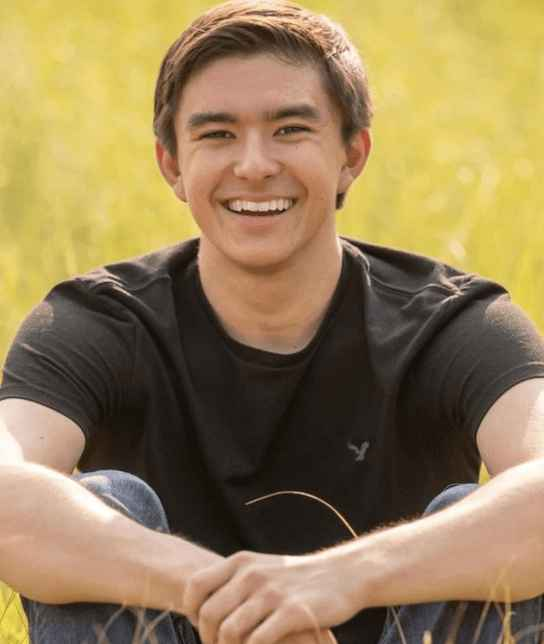
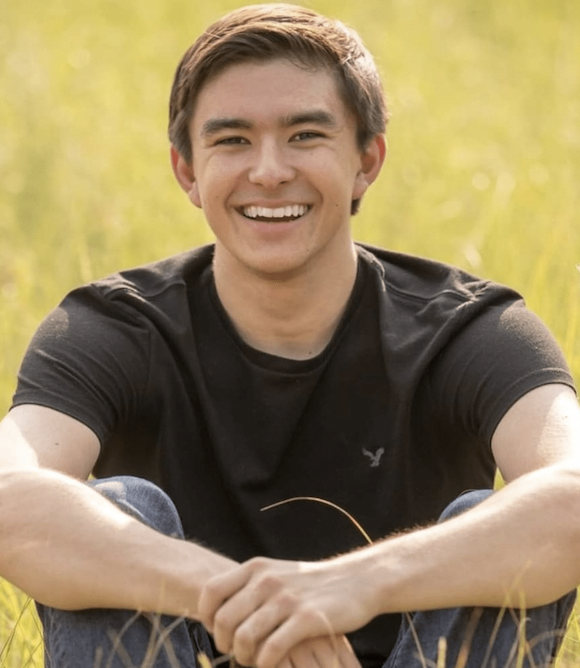
chore: Refit headshot in Name

diff --git a/src/components/NameComponent.js b/src/components/NameComponent.js
@@ -1,14 +1,31 @@
 import '../styles/Name.css'
 import headshot from '../assets/headshot.png';
+import { useState, useEffect } from 'react';
 import { AiOutlineArrowDown } from 'react-icons/ai';
 import { Container, Row, Col } from 'react-bootstrap';
 
 function NameComponent() {
+  const [isSmall, setIsSmallScreen] = useState(window.innerWidth < 1025);
+  const [isVerySmall, setIsVerySmallScreen] = useState(window.innerWidth < 768);
+
+  useEffect(() => {
+    function handleResize() {
+      setIsSmallScreen(window.innerWidth < 1025);
+      setIsVerySmallScreen(window.innerWidth < 768);
+    }
+
+    window.addEventListener('resize', handleResize);
+
+    return () => {
+      window.removeEventListener('resize', handleResize);
+    };
+  }, []);
+
   return (
     <div id="nameC" className="full-page-panel">
       <Container fluid style={{ paddingLeft: "15%", paddingRight: "15%" }}>
         <Row>
-          <Col md={6} style={{paddingTop: "5%" }}>
+          <Col md={6} style={{paddingTop: `${isVerySmall ? '30%' : `${isSmall ? '0%' : '10%'}`}`}}>
             <img src={headshot} alt="Headshot" className="headshot"/>
           </Col>
           <Col md={6} className="align-items-center" style={{
@@ -17,9 +34,9 @@ function NameComponent() {
                 justifyContent: "center",
                 alignItems: "center",
               }}>
-            <h1><strong>Korry Tunnicliff</strong></h1>
-            <h3 style={{fontSize: "4vh;"}} className="name-subheader-1"><i>CU Boulder '23</i></h3>
-            <h3 style={{fontSize: "4vh;"}} className="name-subheader-2"><i>Computer Science BS</i></h3>
+            <h1 id="head1"><strong>Korry Tunnicliff</strong></h1>
+            <h3 id="head2" className="name-subheader-1"><i>CU Boulder '23</i></h3>
+            <h3 id="head3" className="name-subheader-2"><i>Computer Science BS</i></h3>
             <br />
             <br />
           </Col>

diff --git a/src/styles/Name.css b/src/styles/Name.css
@@ -9,6 +9,14 @@ body {
     background-size: cover;
 }
 
+#nameC h1 {
+    font-size: 6vh;
+}
+
+#nameC h3 {
+    font-size: 4vh;
+}
+
 #nameC::before {
     content: '';
     position: absolute;
@@ -51,42 +59,55 @@ h4:hover {
     font-size: 3vw;
   }
   
-  .scroll-prompt:hover {
+.scroll-prompt:hover {
     background-color: #0d1b2a;
     height: 6vh;
     transition: background-color 0.2s ease-in-out, height 0.2s ease-in-out;
-  }
-  
-  .scroll-prompt:hover > svg {
+}
+
+.scroll-prompt:hover > svg {
     color: #96d0e3;
-  }
+}
 
 .right-column {
     margin-top: 50vh;
 }
 
-@media (min-width: 992px) {
+@media (min-width: 1025px) {
     .large-screen-padding {
       padding-top: 20vh;
     }
 }
 
-@media screen and (max-width: 992px) {
-    #name h1 {
+@media screen and (max-width: 1025px) {
+    #nameC h1 {
         font-size: 5.5vh;
-        padding-top: 15vh;
     }
-    #name h3 {
+    #nameC h3 {
         font-size: 4vh;
+    }
+
+    .headshot {
+        max-width: 100vw;
     }
 }
   
 @media screen and (max-width: 768px) {
-    #name h1 {
+    #nameC h1 {
         font-size: 4.5vh;
         padding-top: 0vh;
     }
-    #name h3 {
+    #nameC h3 {
         font-size: 3vh;
+    }
+
+    .headshot {
+        max-width: 40vw;
+    }
+}
+
+@media screen and (max-width: 544px) {
+    .headshot {
+        max-width: 60vw;
     }
 }

diff --git a/src/styles/About.css b/src/styles/About.css
@@ -1,21 +1,4 @@
-#about {
-    background-image: url('../assets/gitProfilePic.jpg');
-    background-position: center;
-    background-repeat: no-repeat;
-    background-size: cover;
-  }
-  
-#about::before {
-    content: '';
-    position: absolute;
-    top: 0;
-    left: 0;
-    width: 100%;
-    height: 100%;
-    background-color: #0D1B2A;
-    opacity: 0.94;
-}
-  
+
 .icon-row {
     padding: 8vh 0;
 }  
@@ -32,7 +15,7 @@
     font-size: 2.2vh;
 }
 
-@media screen and (min-width: 992px) {
+@media screen and (min-width: 1025px) {
     .about-column h1 {
         font-size: 5.5vw;
     }
@@ -46,7 +29,7 @@
     }
 }
 
-@media (max-width: 992px) {
+@media (max-width: 1025px) {
     .flex-md-column {
         flex-direction: row !important;
     }

diff --git a/src/App.js b/src/App.js
@@ -98,11 +98,11 @@ function App() {
   // Handles fade-in classes
   window.addEventListener('scroll', handleScroll);
 
-  const [isSmallScreen, setIsSmallScreen] = useState(window.innerWidth < 992);
+  const [isSmallScreen, setIsSmallScreen] = useState(window.innerWidth < 1025);
 
   useEffect(() => {
     function handleResize() {
-      setIsSmallScreen(window.innerWidth < 992);
+      setIsSmallScreen(window.innerWidth < 1025);
     }
 
     window.addEventListener('resize', handleResize);

diff --git a/src/App.css b/src/App.css
@@ -163,7 +163,7 @@ html {
   transition: font-size 0.5s ease-in-out, letter-spacing 0.5s ease-in-out;
 }
 
-@media (max-width: 992px) {
+@media (max-width: 1025px) {
   .brand-text-big {
     font-size: 2vh;
   }

diff --git a/src/styles/Experience.css b/src/styles/Experience.css
@@ -22,7 +22,7 @@
     font-size: 2.3vh;
 }
 
-@media (max-width: 992px) {
+@media (max-width: 1025px) {
     .experience-card h3 {
         font-size: 3.5vh;
     }
